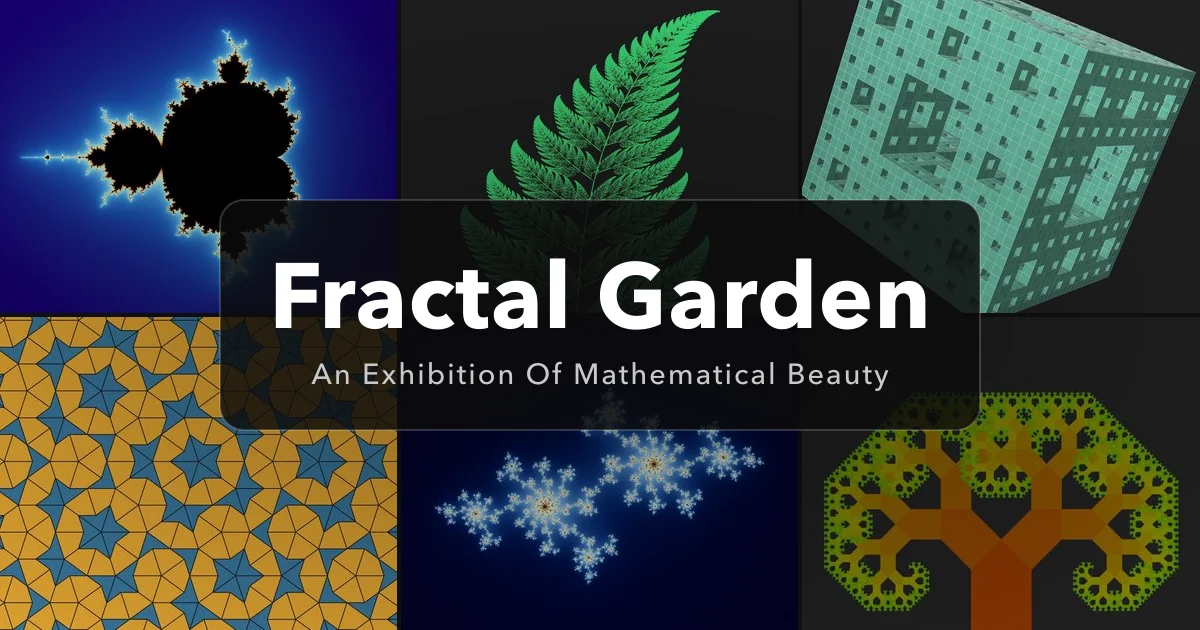
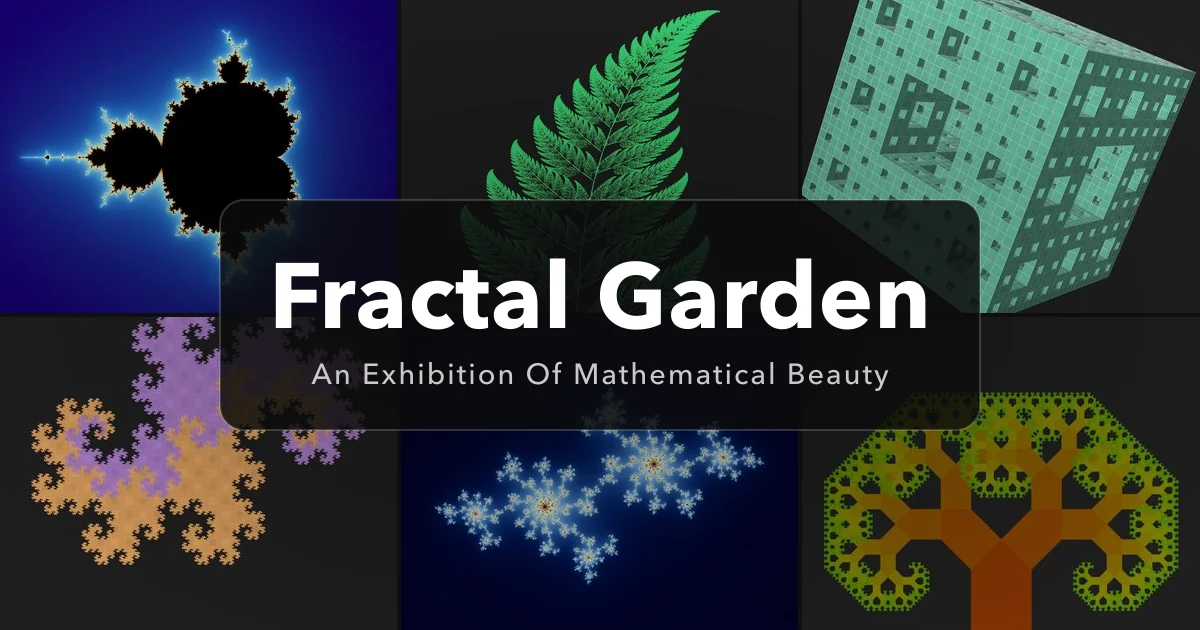
Use Rico's last card picks for Fractal Garden, Quaternius Showcase and conv3d
Fractal Garden swaps the Penrose tiling for the twindragon and its text-free
cover becomes the same collage; Quaternius Showcase gets the panel title with
the fan-made note; conv3d marks the FBX2glTF result with a cross and its own
output with a check.

Changed region(s): [[0.0, 0.4825, 0.3392, 1.0], [0.2467, 0.5127, 0.3392, 0.573]]

diff --git a/src/lib/projects.ts b/src/lib/projects.ts
@@ -238,7 +238,7 @@ export const PROJECTS: Project[] = [
     ),
     wordmarkCover: wordmark(
       "quaternius-showcase",
-      "Four low-poly Quaternius models above the line See each free Quaternius model in 3D before you download it",
+      "Quaternius Showcase title and the line Fan-made. Not affiliated with Quaternius, over a T-rex, a cow, a spaceship and a mech",
     ),
   },
   {
@@ -257,7 +257,7 @@ export const PROJECTS: Project[] = [
     section: "Art & 3D",
     cover: screenshot(
       "fractal-garden",
-      "Eight fractals, among them the Mandelbrot set, a Barnsley fern and a Menger sponge",
+      "Six fractals: the Mandelbrot set, a Barnsley fern, a Menger sponge, a twindragon, a Julia set and a Pythagoras tree",
     ),
     wordmarkCover: wordmark(
       "fractal-garden",
@@ -351,11 +351,11 @@ export const PROJECTS: Project[] = [
     section: "Dev tools",
     cover: screenshot(
       "conv3d",
-      "A mage model turned flat yellow by FBX2glTF, next to 18 textured models converted by conv3D",
+      "A mage model turned flat yellow by FBX2glTF, marked with a red cross, next to 18 textured models converted by conv3d, marked with a green check",
     ),
     wordmarkCover: wordmark(
       "conv3d",
-      "conv3d logo and FBX packs in, textured GLBs out, beside 18 converted models",
+      "conv3d logo and FBX packs in, textured GLBs out, with a red cross on the FBX2glTF result and a green check on 18 converted models",
     ),
   },
 
